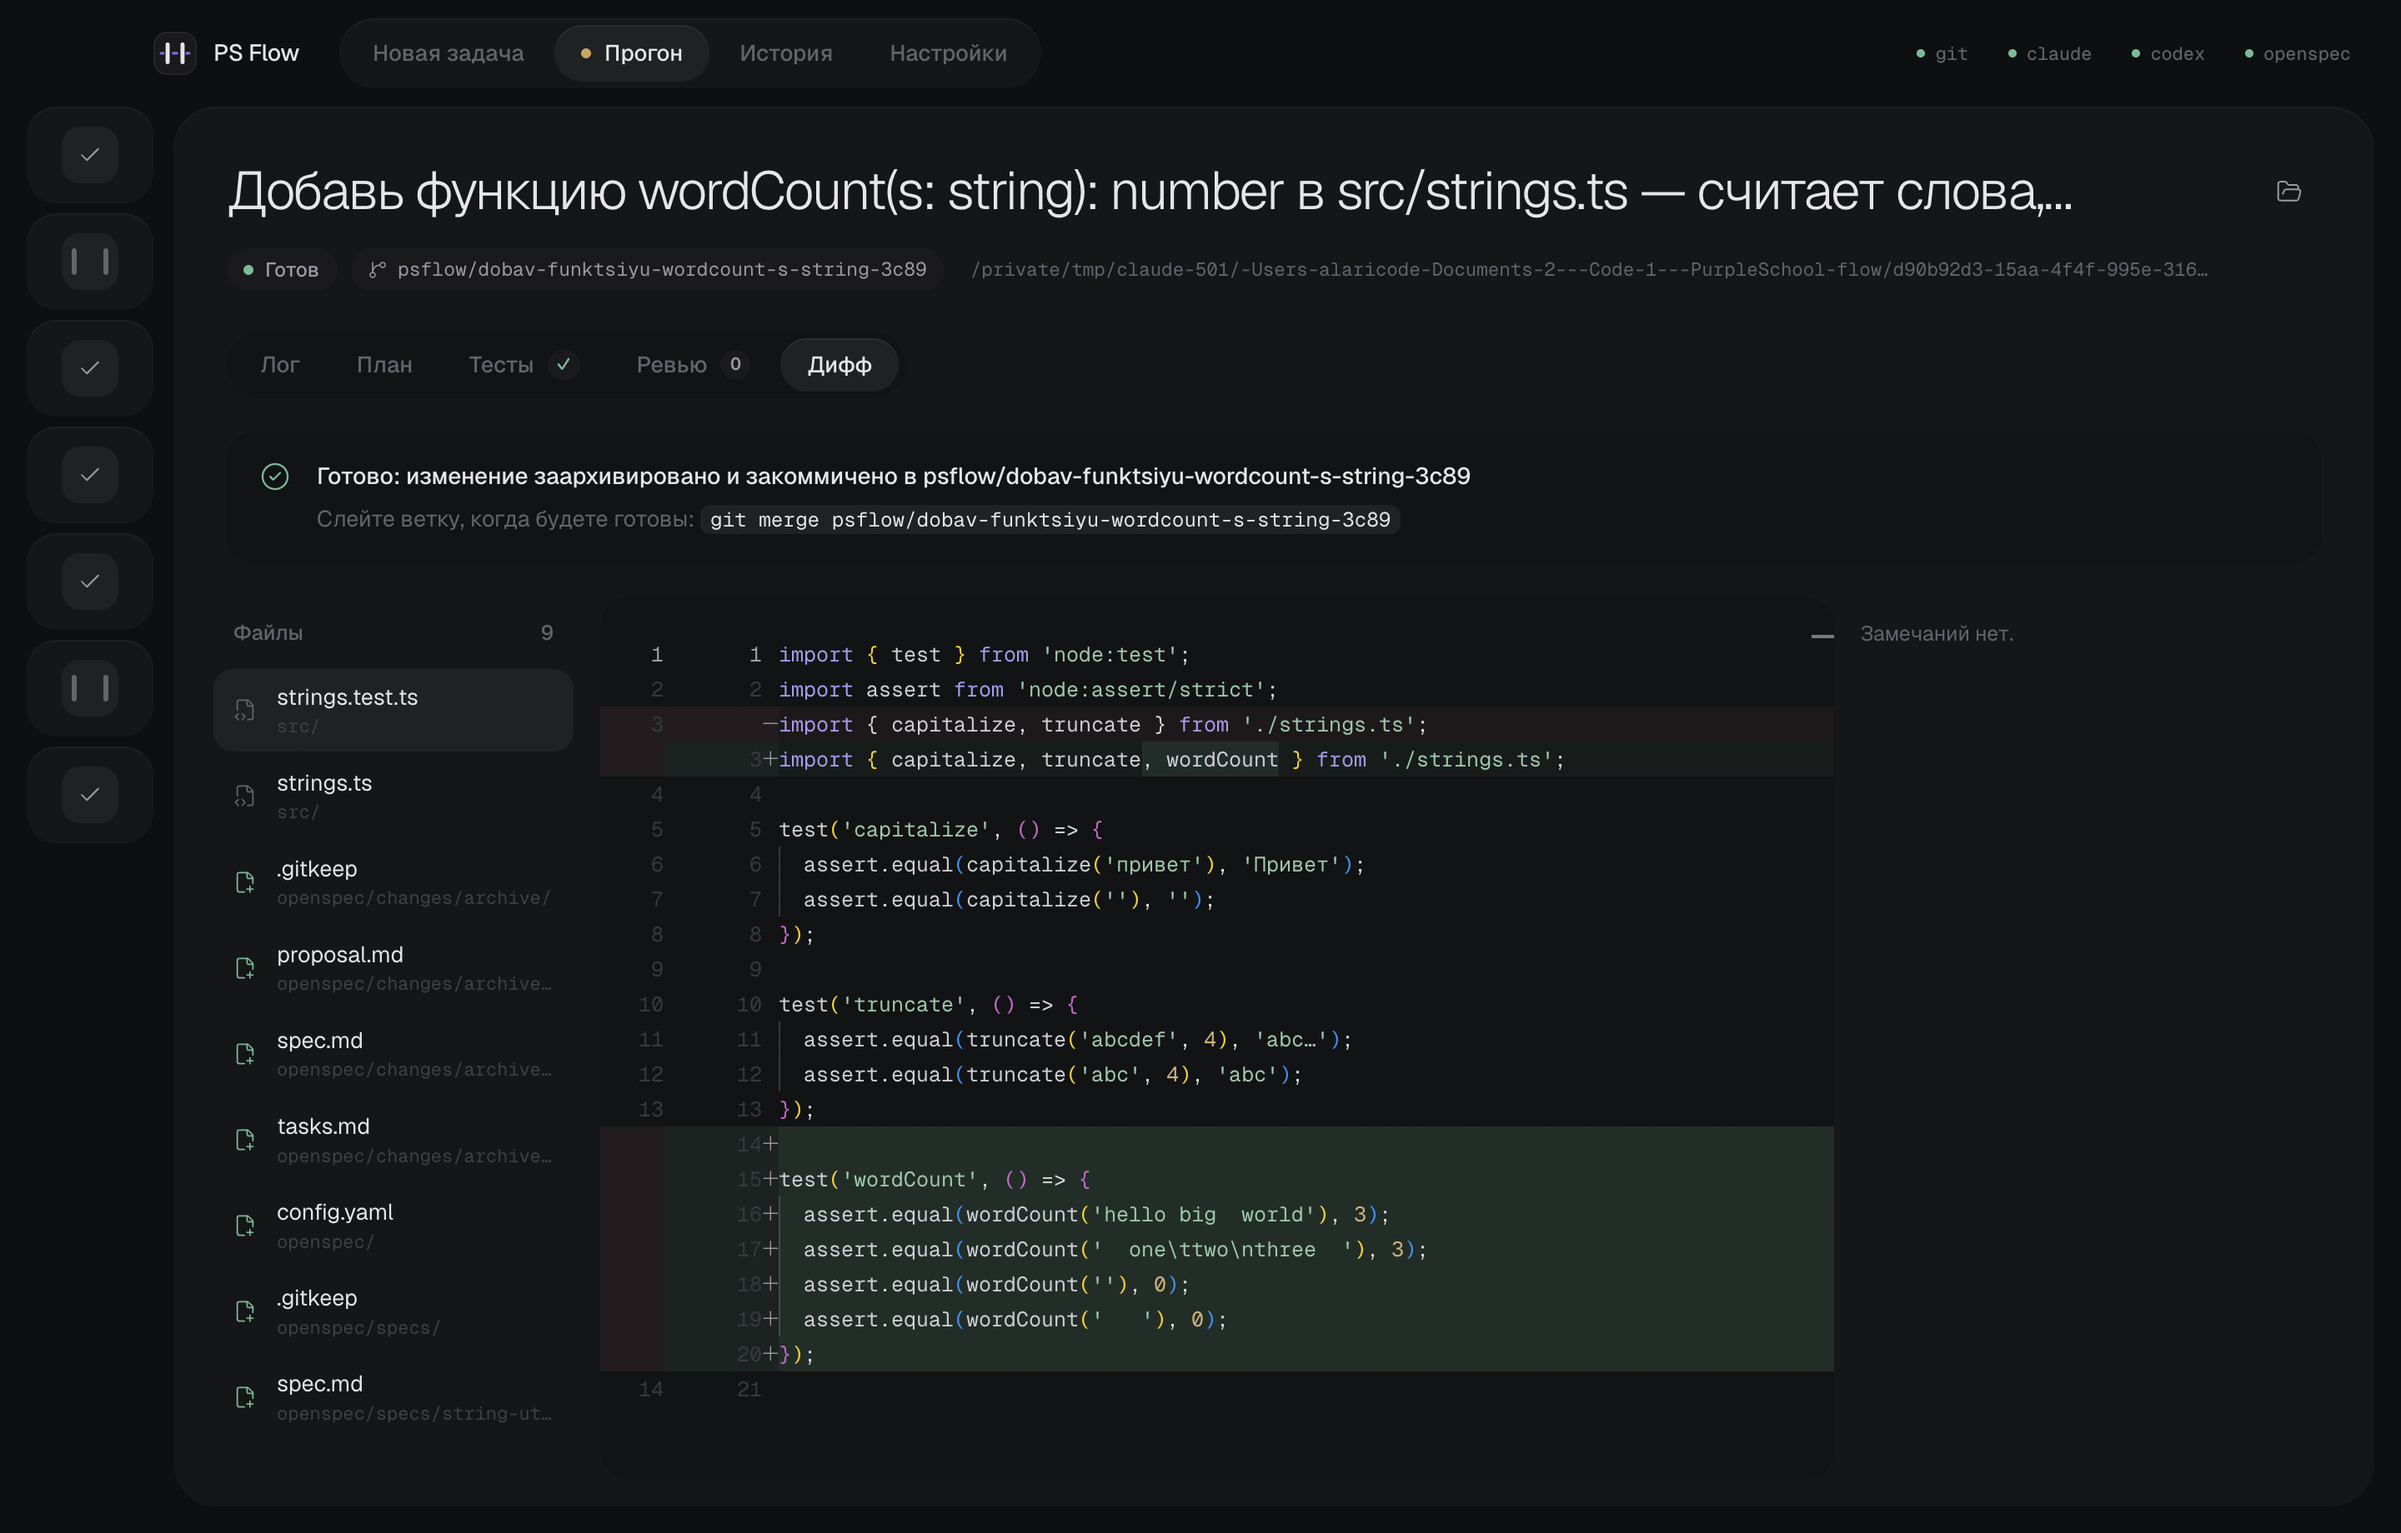
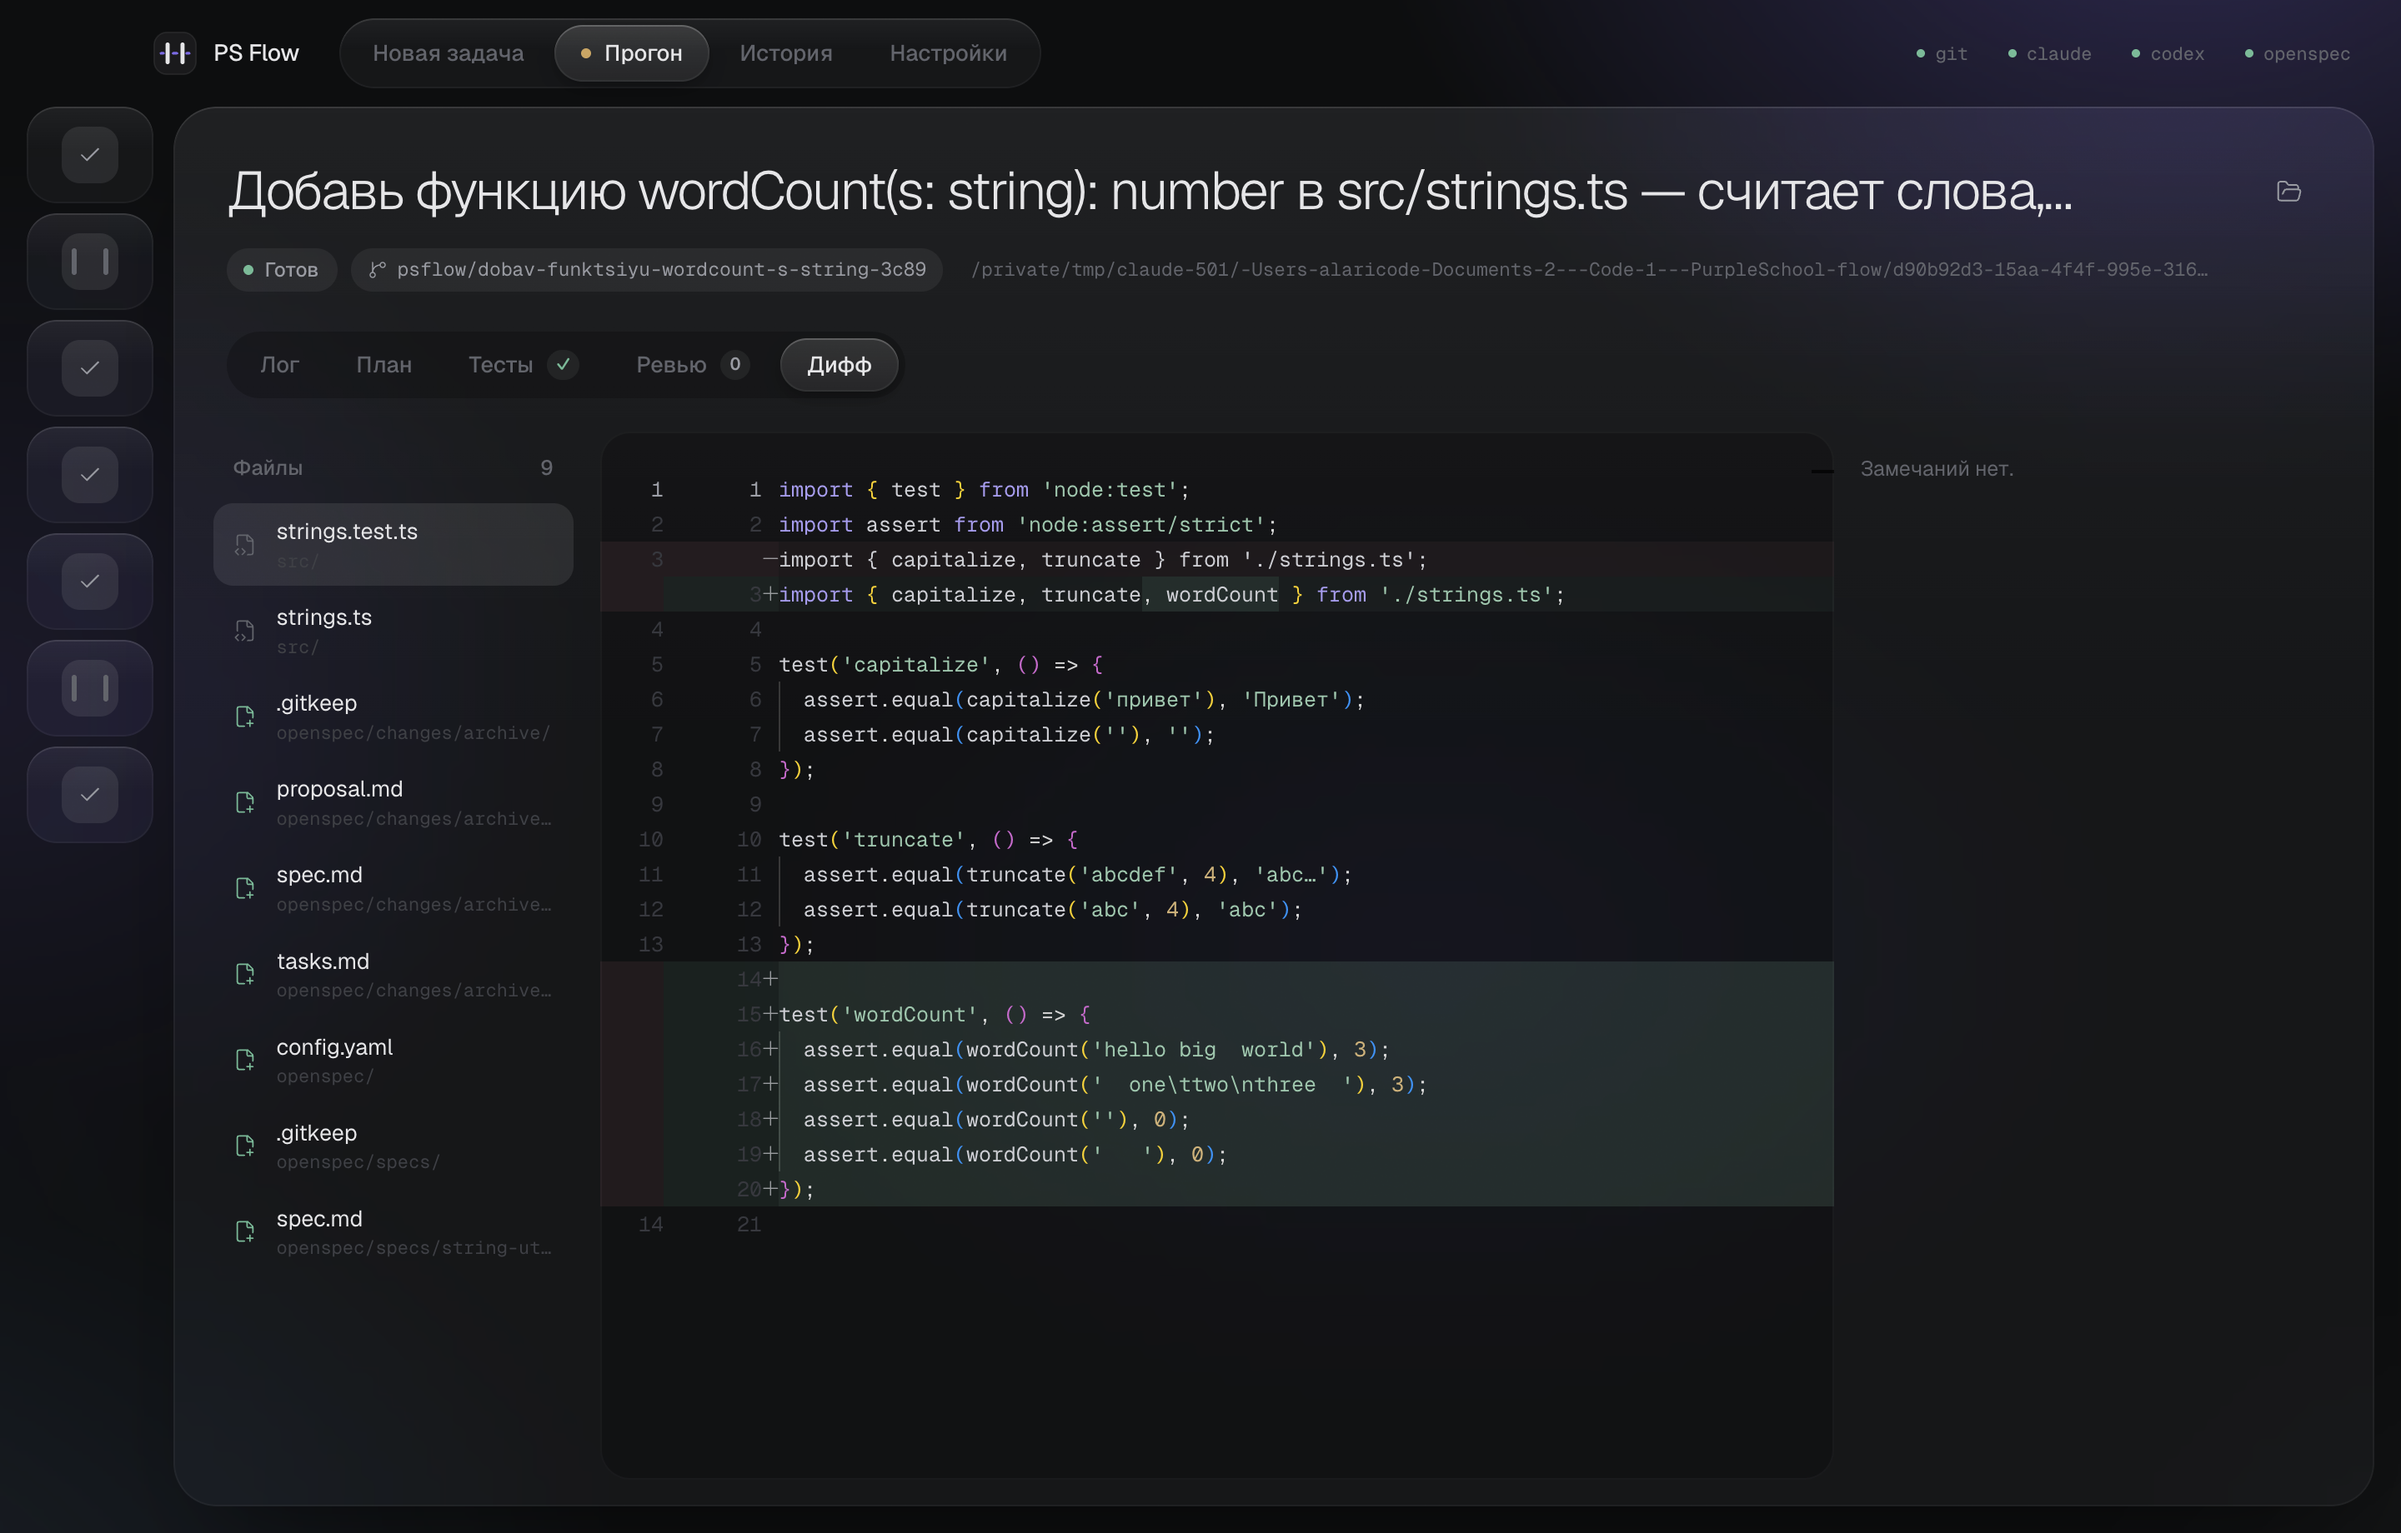
UI: матовое стекло и фоновое освещение
Карточки — полупрозрачное стекло с blur/saturate, верхним бликом и гранью;
под интерфейсом неподвижные мягкие источники света. Терминал и Monaco прозрачные,
внутренние зоны — тёмное утопленное стекло.

diff --git a/app/src/renderer/src/styles/app.css b/app/src/renderer/src/styles/app.css
@@ -2,7 +2,7 @@
 *, *::before, *::after { box-sizing: border-box; }
 html, body, #root { height: 100%; margin: 0; }
 body {
-  background: var(--bg-1);
+  background: var(--bg-window);
   color: var(--text-1);
   font: 400 var(--fs-14)/1.55 var(--font-ui);
   letter-spacing: -0.003em;
@@ -98,7 +98,7 @@ body::after {
 .btn-approve:hover:not(:disabled) { background: #fff; }
 .btn-approve svg { color: #2f8a62; }
 .btn-ghost { background: var(--bg-5); color: var(--text-1); box-shadow: inset 0 1px 0 rgba(255, 255, 255, 0.05); }
-.btn-ghost:hover:not(:disabled) { background: #2b2c31; }
+.btn-ghost:hover:not(:disabled) { background: rgba(255, 255, 255, 0.12); }
 .btn-quiet { color: var(--text-2); }
 .btn-quiet:hover:not(:disabled) { background: var(--bg-4); color: var(--text-1); }
 .btn-danger { color: var(--err); background: var(--err-wash); }
@@ -255,7 +255,7 @@ input[type='number'].input { font-variant-numeric: tabular-nums; }
 }
 .station-hit:hover { background: var(--bg-4); }
 .station.st-idle .station-hit, .station.st-stale .station-hit { background: transparent; box-shadow: inset 0 0 0 1px var(--line); }
-.station.st-active .station-hit, .station.st-waiting .station-hit { background: linear-gradient(180deg, #212226, var(--bg-4)); box-shadow: inset 0 1px 0 rgba(255, 255, 255, 0.06); }
+.station.st-active .station-hit, .station.st-waiting .station-hit { background: linear-gradient(180deg, rgba(255, 255, 255, 0.085), rgba(255, 255, 255, 0.045)); box-shadow: inset 0 1px 0 rgba(255, 255, 255, 0.11), inset 0 0 0 1px rgba(255, 255, 255, 0.05); }
 .station.is-selected .station-hit { box-shadow: inset 0 0 0 1px var(--line-3); }
 
 .station-node { position: relative; flex: none; width: 34px; height: 34px; display: grid; place-items: center; }
@@ -458,7 +458,7 @@ button.note-loc:hover { color: var(--text-1); }
 .ln-mine { background: rgba(138, 116, 238, 0.06); }
 .monaco-editor .margin-view-overlays .line-numbers { cursor: pointer !important; }
 .zone { padding: 6px 16px 6px 8px; display: flex; flex-direction: column; gap: 6px; font-family: var(--font-ui); }
-.zone-card { display: flex; gap: 10px; align-items: baseline; padding: 8px 12px; border-radius: 10px; max-width: 720px; background: #1b1c1f; font-size: 12.5px; color: #d6d7dc; line-height: 1.4; overflow: hidden; white-space: nowrap; text-overflow: ellipsis; }
+.zone-card { display: flex; gap: 10px; align-items: baseline; padding: 8px 12px; border-radius: 10px; max-width: 720px; background: rgba(28, 29, 33, 0.92); box-shadow: inset 0 0 0 1px rgba(255, 255, 255, 0.06); font-size: 12.5px; color: #d6d7dc; line-height: 1.4; overflow: hidden; white-space: nowrap; text-overflow: ellipsis; }
 .zone-card b { flex: none; font-weight: 500; font-size: 11.5px; color: var(--accent-hi); }
 .zone-card span { overflow: hidden; text-overflow: ellipsis; }
 .z-blocking b { color: var(--err); }
@@ -512,3 +512,75 @@ button.note-loc:hover { color: var(--text-1); }
 .station.st-active .station-stats, .station.st-waiting .station-stats, .station.is-selected .station-stats { display: flex; }
 .station.st-active .station-hit, .station.st-waiting .station-hit, .station.is-selected .station-hit { align-items: flex-start; }
 .station.st-active .station-summary, .station.is-selected .station-summary { -webkit-line-clamp: 2; }
+
+
+/* ——— Стекло ———
+   Фоновое освещение неподвижно и лежит под всем интерфейсом;
+   карточки размывают его, поэтому глубина видна без рамок. */
+.app { position: relative; isolation: isolate; }
+.app::before {
+  content: ''; position: fixed; inset: -10%; z-index: -1; pointer-events: none;
+  background:
+    radial-gradient(38% 42% at 82% 4%, rgba(138, 116, 238, 0.20), transparent 70%),
+    radial-gradient(30% 36% at 58% 52%, rgba(120, 104, 210, 0.07), transparent 70%),
+    radial-gradient(42% 48% at 6% 96%, rgba(96, 128, 168, 0.13), transparent 70%),
+    radial-gradient(26% 30% at 30% 18%, rgba(255, 255, 255, 0.025), transparent 70%);
+  filter: blur(10px);
+}
+
+.navpills, .stat, .station-hit, .run-main, .panel, .project, .bezel, .newtask-aside,
+.newtask-main > .grid-2, .gatebar, .side-run {
+  -webkit-backdrop-filter: var(--glass-blur);
+  backdrop-filter: var(--glass-blur);
+}
+.run-main, .panel, .newtask-aside { box-shadow: var(--glass-edge), var(--glass-shadow); }
+.station.st-idle .station-hit, .station.st-stale .station-hit { backdrop-filter: none; -webkit-backdrop-filter: none; }
+
+/* Плавающий гейт — самое «толстое» стекло */
+.gatebar {
+  background: linear-gradient(180deg, rgba(255, 255, 255, 0.10), rgba(255, 255, 255, 0.06));
+  box-shadow: inset 0 1px 0 rgba(255, 255, 255, 0.14), inset 0 0 0 1px rgba(255, 255, 255, 0.06), 0 24px 48px -16px rgba(0, 0, 0, 0.7);
+  -webkit-backdrop-filter: blur(36px) saturate(170%);
+  backdrop-filter: blur(36px) saturate(170%);
+}
+.gate-comment { background: rgba(0, 0, 0, 0.3); }
+
+/* Активная пилюля и кнопки — стеклянные капли */
+.navpill.is-on, .tab.is-on {
+  background: linear-gradient(180deg, rgba(255, 255, 255, 0.13), rgba(255, 255, 255, 0.07));
+  box-shadow: inset 0 1px 0 rgba(255, 255, 255, 0.16), inset 0 0 0 1px rgba(255, 255, 255, 0.05), 0 4px 12px -4px rgba(0, 0, 0, 0.5);
+}
+.btn-ghost {
+  background: linear-gradient(180deg, rgba(255, 255, 255, 0.1), rgba(255, 255, 255, 0.055));
+  box-shadow: inset 0 1px 0 rgba(255, 255, 255, 0.13), inset 0 0 0 1px rgba(255, 255, 255, 0.045);
+}
+.btn-primary {
+  background: linear-gradient(180deg, #9a86f4, var(--accent));
+  box-shadow: inset 0 1px 0 rgba(255, 255, 255, 0.28), 0 8px 22px -8px rgba(138, 116, 238, 0.55);
+}
+.btn-primary:hover:not(:disabled) { background: linear-gradient(180deg, #a593f6, #9481f2); }
+.btn-approve { box-shadow: inset 0 1px 0 #fff, 0 8px 22px -10px rgba(255, 255, 255, 0.35); }
+
+/* Внутренние зоны — тёмное утопленное стекло */
+.term, .output { box-shadow: inset 0 1px 2px rgba(0, 0, 0, 0.4), inset 0 0 0 1px rgba(255, 255, 255, 0.03); }
+.diff-main, .doc, .doc.bezel, .verdict, .verdict.bezel { box-shadow: inset 0 0 0 1px rgba(255, 255, 255, 0.035); }
+.input { background: var(--bg-1); }
+
+/* Свет ярче и с разных сторон — стекло ловит его по-разному */
+.app::before {
+  background:
+    radial-gradient(40% 46% at 84% 0%, rgba(138, 116, 238, 0.30), transparent 70%),
+    radial-gradient(28% 40% at 8% 46%, rgba(138, 116, 238, 0.12), transparent 72%),
+    radial-gradient(34% 34% at 58% 60%, rgba(110, 98, 200, 0.08), transparent 70%),
+    radial-gradient(44% 50% at 0% 100%, rgba(90, 130, 175, 0.18), transparent 70%),
+    radial-gradient(30% 34% at 100% 100%, rgba(255, 255, 255, 0.035), transparent 70%);
+}
+
+/* Верхний блик на стекле */
+.stat, .run-main, .panel, .project, .bezel, .newtask-aside, .newtask-main > .grid-2, .navpills,
+.station:not(.st-idle):not(.st-stale) .station-hit {
+  background-image: linear-gradient(180deg, rgba(255, 255, 255, 0.045), rgba(255, 255, 255, 0) 46%);
+}
+.stat:hover, .project:hover, .station-hit:hover { background-color: var(--bg-4); }
+
+.newtask-aside { position: static; }

diff --git a/app/src/renderer/src/styles/tokens.css b/app/src/renderer/src/styles/tokens.css
@@ -6,18 +6,23 @@
 :root {
   color-scheme: dark;
 
-  /* Почти чёрный фон и карточки без рамок — как приборная панель */
-  --bg-0: #08090a;   /* терминал, поля ввода */
-  --bg-1: #0b0c0e;   /* фон окна */
-  --bg-2: #111214;   /* утопленные зоны внутри карточек */
-  --bg-3: #151618;   /* карточка */
-  --bg-4: #1b1c1f;   /* выбранная карточка, ховер */
-  --bg-5: #232428;   /* активная пилюля, контролы */
+  /* Почти чёрный фон, поверх — матовое стекло. Поверхности полупрозрачные: сквозь них видно фоновое освещение */
+  --bg-window: #0a0b0d;
+  --bg-0: rgba(4, 5, 6, 0.62);          /* терминал, вывод тестов — тёмное утопленное стекло */
+  --bg-1: rgba(0, 0, 0, 0.28);          /* поля ввода */
+  --bg-2: rgba(0, 0, 0, 0.22);          /* утопленные зоны внутри стекла */
+  --bg-3: rgba(255, 255, 255, 0.034);   /* стеклянная карточка */
+  --bg-4: rgba(255, 255, 255, 0.058);   /* выбранное, ховер */
+  --bg-5: rgba(255, 255, 255, 0.085);   /* активная пилюля, контролы */
+
+  --glass-blur: blur(28px) saturate(150%);
+  --glass-edge: inset 0 1px 0 rgba(255, 255, 255, 0.075), inset 0 0 0 1px rgba(255, 255, 255, 0.04);
+  --glass-shadow: 0 30px 60px -30px rgba(0, 0, 0, 0.55);
 
   --line: rgba(255, 255, 255, 0.045);
   --line-2: rgba(255, 255, 255, 0.085);
   --line-3: rgba(255, 255, 255, 0.14);
-  --highlight: inset 0 1px 0 rgba(255, 255, 255, 0.04);
+  --highlight: var(--glass-edge);
 
   --text-1: #e9e9eb;
   --text-2: #a3a5ac;

diff --git a/app/src/renderer/src/components/DiffReview.tsx b/app/src/renderer/src/components/DiffReview.tsx
@@ -34,26 +34,26 @@ monaco.editor.defineTheme('psflow-night', {
     { token: 'type', foreground: '9cc0dc' },
   ],
   colors: {
-    'editor.background': '#111214',
+    'editor.background': '#00000000',
     'editor.foreground': '#d4d5da',
     'editorLineNumber.foreground': '#3e4047',
     'editorLineNumber.activeForeground': '#a7a9b1',
     'editor.lineHighlightBackground': '#14151900',
     'editor.lineHighlightBorder': '#00000000',
-    'editorGutter.background': '#111214',
+    'editorGutter.background': '#00000000',
     'diffEditor.insertedTextBackground': '#74c4a01c',
     'diffEditor.removedTextBackground': '#df7e8d22',
     'diffEditor.insertedLineBackground': '#74c4a00c',
     'diffEditor.removedLineBackground': '#df7e8d0e',
     'diffEditorGutter.insertedLineBackground': '#74c4a018',
     'diffEditorGutter.removedLineBackground': '#df7e8d18',
-    'diffEditor.diagonalFill': '#1b1c1f',
+    'diffEditor.diagonalFill': '#ffffff0c',
     'diffEditor.border': '#ffffff0e',
     'editor.selectionBackground': '#8a74ee40',
     'scrollbarSlider.background': '#ffffff12',
     'scrollbarSlider.hoverBackground': '#ffffff22',
     'editorOverviewRuler.border': '#00000000',
-    'editorWidget.background': '#17181c',
+    'editorWidget.background': '#1a1b1fee',
   },
 });
 

diff --git a/app/src/renderer/src/components/Terminal.tsx b/app/src/renderer/src/components/Terminal.tsx
@@ -4,7 +4,7 @@ import { FitAddon } from '@xterm/addon-fit';
 import { onCoreEvent } from '../lib/store';
 
 const THEME = {
-  background: '#08090a',
+  background: 'rgba(0,0,0,0)',
   foreground: '#c9cad0',
   cursor: '#8a74ee',
   cursorAccent: '#08090a',
@@ -32,6 +32,7 @@ export function LiveLog({ runId }: { runId: string }) {
       convertEol: false,
       cursorBlink: false,
       disableStdin: true,
+      allowTransparency: true,
       scrollback: 20000,
       allowProposedApi: false,
     });
